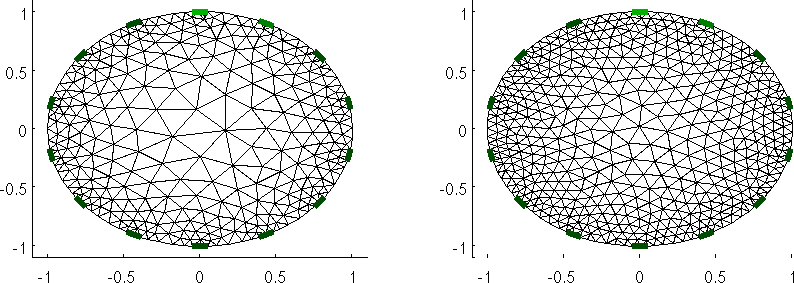
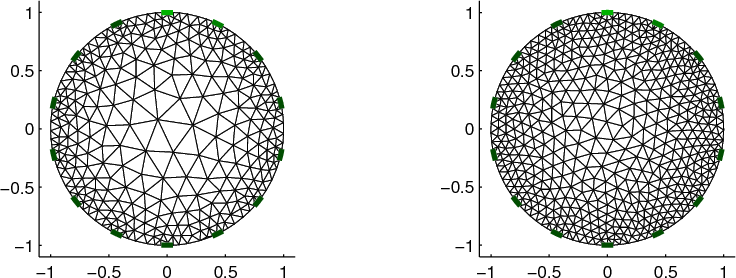
convert to print_convert
git-svn-id: svn+ssh://svn.code.sf.net/p/eidors3d/code/trunk@2768 82006732-fb7e-4a22-9f28-86a212cce563

diff --git a/htdocs/tutorial/distmesh/circ_2d_model01.m b/htdocs/tutorial/distmesh/circ_2d_model01.m
@@ -7,10 +7,12 @@ subplot(221);
 fmdl= dm_2d_circ_pt_elecs( elec_pts, [], [0.10,10,0.05] );
 show_fem(fmdl)
 hold on; plot(0.5,0.5,'o','Color',[0,0.5,0]); hold off
+axis equal
 
 subplot(222);
 fmdl= dm_2d_circ_pt_elecs( elec_pts, [], [0.10,10,0.02] );
 show_fem(fmdl)
 hold on; plot(0.5,0.5,'o','Color',[0,0.5,0]); hold off
+axis equal
 
-print -dpng -r125 circ_2d_model01.png
+print_convert circ_2d_model01.png '-density 125'

diff --git a/htdocs/tutorial/distmesh/circ_2d_model02.m b/htdocs/tutorial/distmesh/circ_2d_model02.m
@@ -17,4 +17,4 @@ subplot(222);
 fmdl= dm_2d_circ_pt_elecs( elec_pts, [], [0.10,10,0.02] );
 show_fem(fmdl);
 
-print -dpng -r125 circ_2d_model02.png
+print_convert circ_2d_model02.png '-density 125'

diff --git a/htdocs/tutorial/distmesh/circ_2d_model03.m b/htdocs/tutorial/distmesh/circ_2d_model03.m
@@ -33,4 +33,4 @@ for i=1:5; for j=0:1
    if i>1; set(gca,'XTickLabel',[]); end
 end; end
 
-print -dpng -r200 circ_2d_model03.png
+print_convert circ_2d_model03.png '-density 200'
